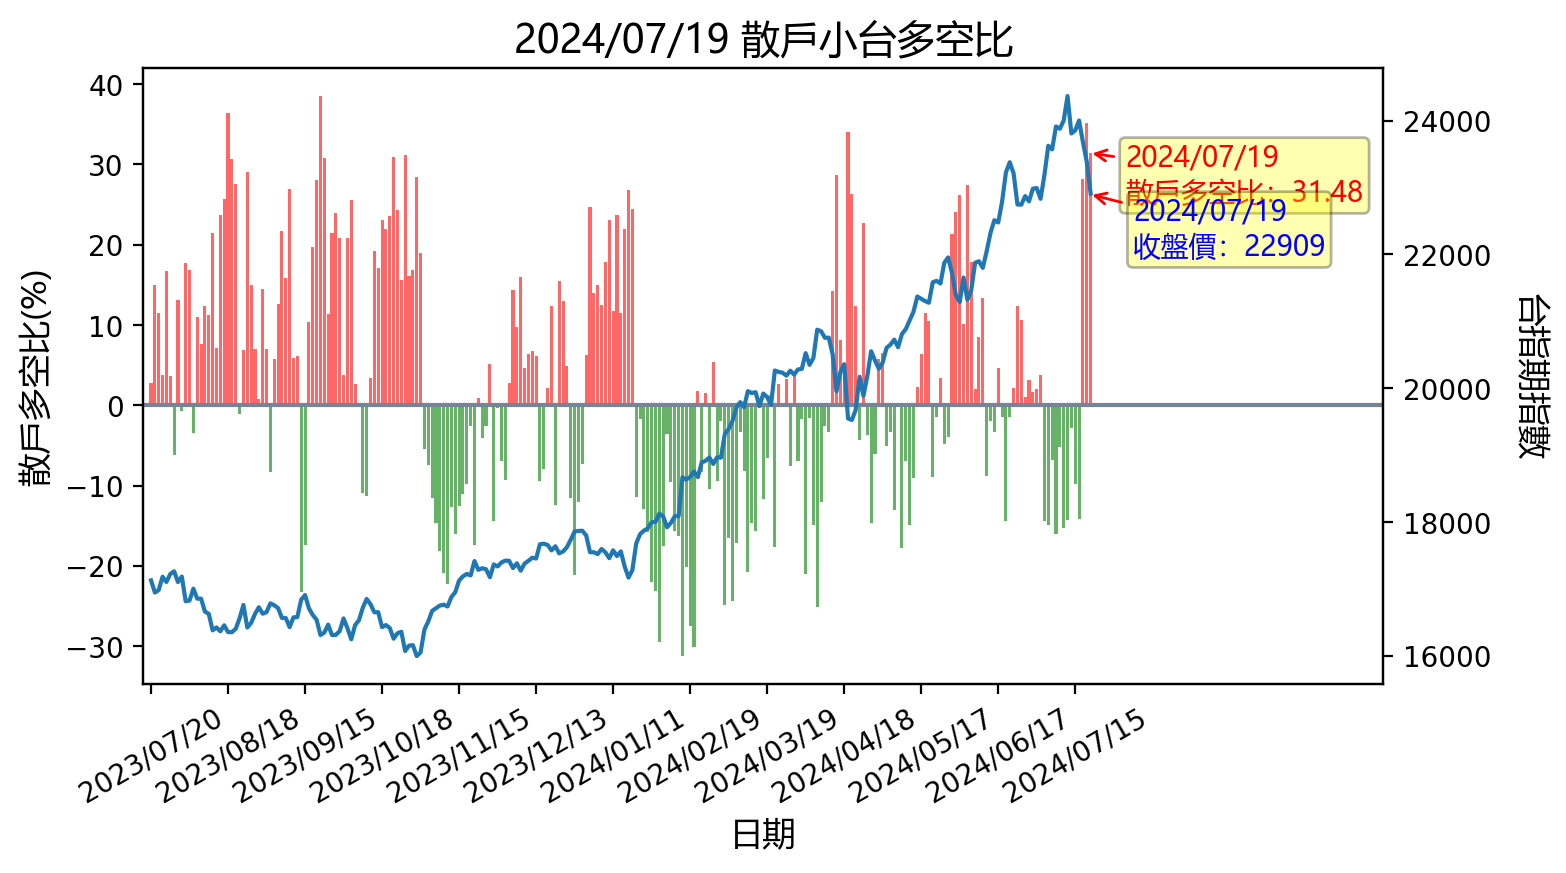
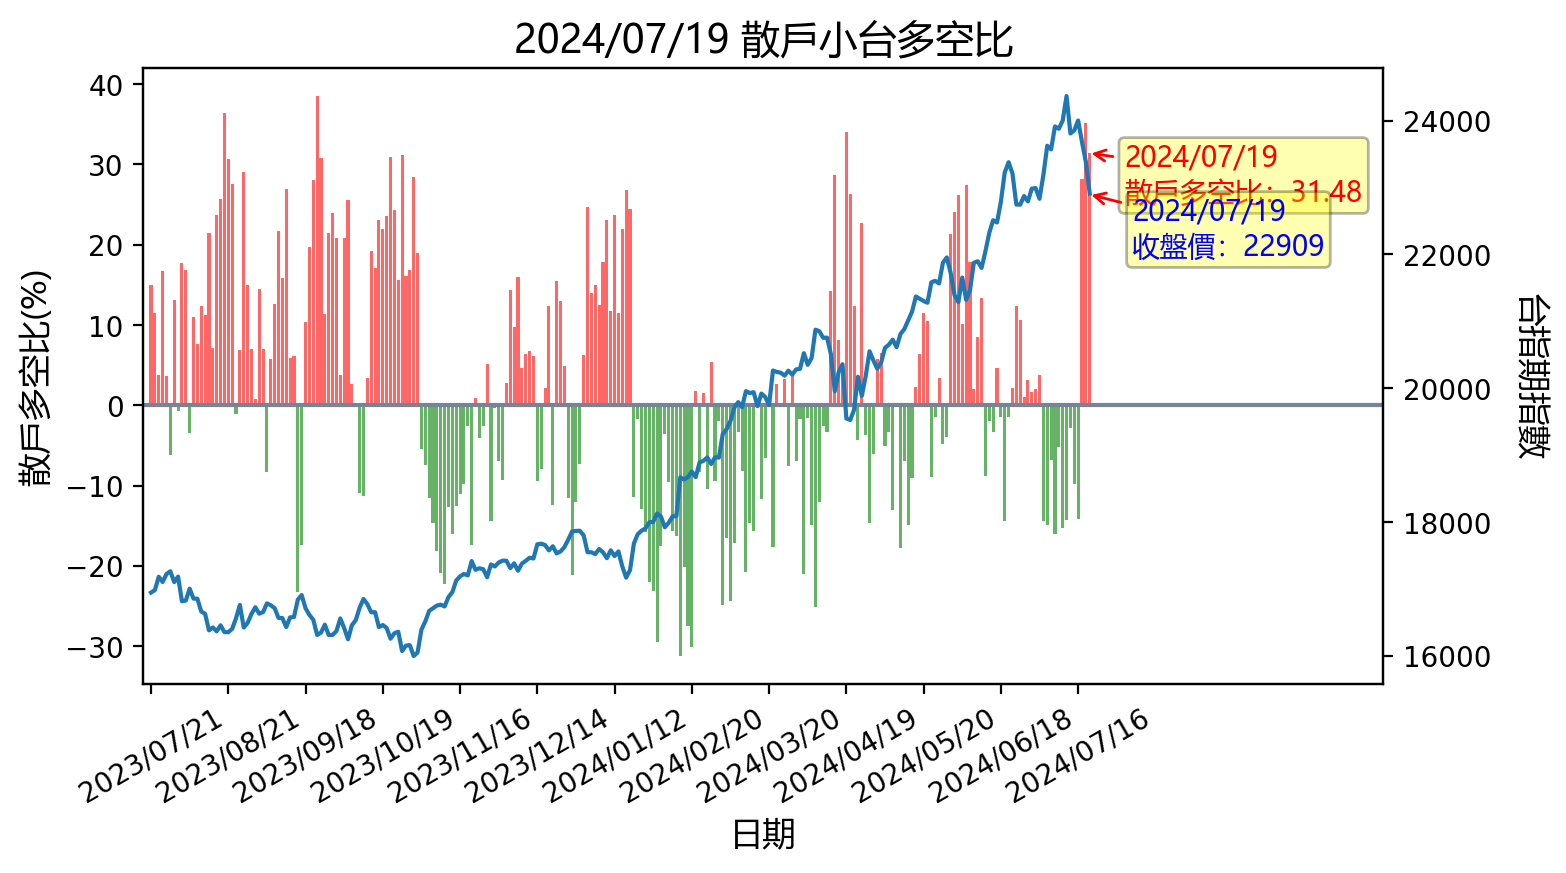
更新時間: Sun Jul 21 16:29:53 CST 2024

diff --git a/README.md b/README.md
@@ -1,12 +1,12 @@
-## 20240720 台指期「預估換倉成本」
+## 20240721 台指期「預估換倉成本」
 ![](images/txfcost.png)
 
-## 20240720 台指期「散戶小台多空比」
+## 20240721 台指期「散戶小台多空比」
 ![](images/bbiri.png)
 
-## 20240720 台指選擇權「Put/Call Ratios」
+## 20240721 台指選擇權「Put/Call Ratios」
 ![](images/pcratio.png)
 
-## 20240720 台指期「大額交易人」
+## 20240721 台指期「大額交易人」
 ![](images/blocktrade.png)
 
